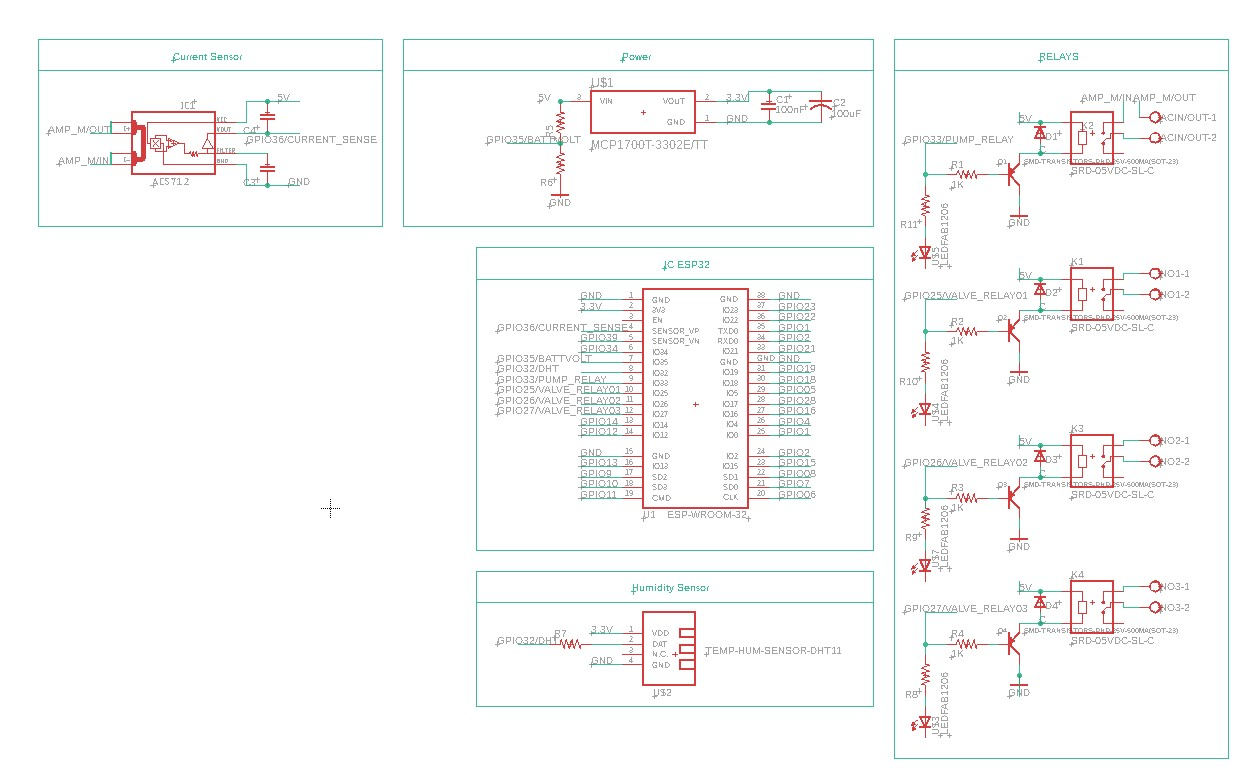
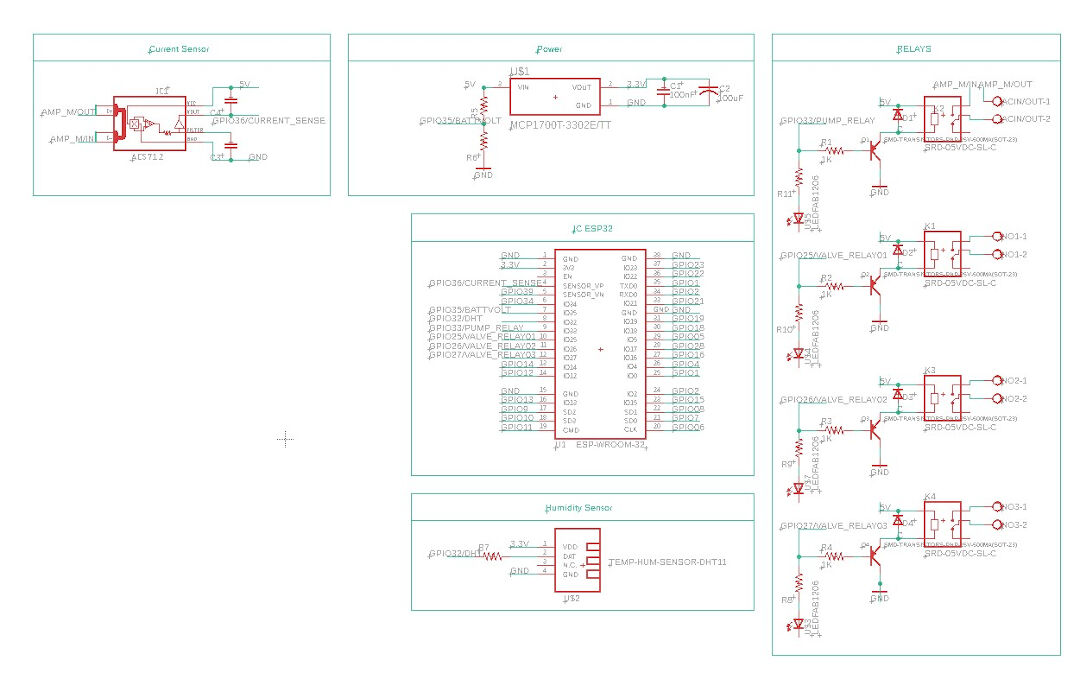
network partial

diff --git a/network.html b/network.html
@@ -61,24 +61,26 @@
             <hr>
             <h4>Group assignment</h4>
             <ul>
-                <li>...</li>
+                <li>Send a message between two projects</li>
             </ul>
             <h4>Individual assignment</h4>
             <ul>
-                <li>...</li>
+                <li>design, build, and connect wired or wireless node(s) with network or bus addresses</li>
             </ul>
             <br>
             <h4>Learning outcomes:</h4>
             <ul>
-                <li>...</li>
+                <li>Demonstrate workflows used in network design</li>
+                <li>Implement and interpret networking protocols and/or communication protocols</li>
             </ul><br>
             <h4>Have you:</h4>
             <ul>
                 <li>Linked to the group assignment page</li>
-                <li>Documented your process</li>
+                <li>Documented your project</li>
+                <li>Documented what you have learned from implementing networking and/or communication protocols</li>
+                <li>Explained the programming process/es you used.</li>
                 <li>Outlined problems and how you fixed them</li>
-                <li>Included original code (or a screenshot of the app code if that's not possible)</li>
-                <li>Included a ‘hero shot/video’ of your application running with your board</li>
+                <li>Included design files (or linked to where they are located if you are using a board you have designed and fabricated earlier) and original code.</li>
             </ul>
         </div>
         <hr>
@@ -145,6 +147,30 @@
         <p class="pic left"><img src="media/network/currentsensesch.jpg"></p>
         <p>I got the Real time clock library as well at <a href="https://www.snapeda.com/parts/DS1302ZN/Maxim%20Integrated/view-part/?ref=search&t=DS1302Z">Snapeda</a> but for now I will not use it so the full Schematics I draw is bellow:</p>
         <p class="pic left"><img src="media/network/schematics.jpg"></p>
+        <p>After sometime staring at the Schematics I realize a few errors, I forgot to connect the relays LED's resistor to VCC and also forgot to include a reset and a program button necessary to put the ESP on programming mode as well as forgot to include headers for the serial mode and for expandability and finally I decided to include a crystal for better time keeping.</p>
+        <p>I then drew the Reset and Program buttons:</p>
+        <p class="pic left"><img src="media/network/buttons.jpg"></p>
+        <p>Here I corrected the relays adding the VCC as well as added an octocoupler in between the signal and the relays so I prevent any feedback from the relays.</p>
+        <p class="pic left"><img src="media/network/relayswithoctocoupler.jpg"></p>
+        <p>Here I added TX RX header, crystal for better internall RTC timekepeeng and ESP32DEVKIT compatibility headers.</p>
+        <p class="pic left"><img src="media/network/headersandcrystal.jpg"></p>
+        <p>So hopefully finally my final Schematics...</p>
+        <p class="pic left"><img src="media/network/schematicsfinal.jpg"></p>
+        <p>Now I will start the routing work on the board I have to say I am a bit anxious as I never made such a complex PCB!</p>
+        <p>How encouraging is what I see when I move to the board mode in Eagle!!!</p>
+        <p class="pic left"><img src="media/network/encoraging.png"></p>
+        <p>First thing I do is to move the devkit foot print to the center along with the ESP32</p>
+        <p class="pic left"><img src="media/network/firstthing.jpg"></p>
+        <p>After trying for a while to connect by hand I give a try on the autorouter, I had to stop after a few minutes and the result is laughable. I will try again moving the esp32 up and if not I will not attempt a ESP32devkit compatibility.</p>
+        <p class="pic left"><img src="media/network/isthisevenfabable.jpg"></p>
+        <p>So I gave up on the DevKit compatibility and decided to move slowly this time. I created a backup of my work that I opened in another eagle window and deleted all the components I was not working on the schematics and board looked like this. My idea is to copy from the backup the components back as I finish each step. so below its how the step one looks.</p>
+        <p class="pic left"><img src="media/network/step01a.jpg"></p>
+        <p>In the Board you can see #1 the relay and #2 the the current sensor circuit and #3 the on board LED.</p>
+        <p class="pic left"><img src="media/network/step01b.jpg"></p>
+        <p>So now I copied the first valve relay and when I went to the board eagle presented me with the pasted components, I believe this way is much easier.</p>
+        <p class="pic left"><img src="media/network/step02b1.jpg"></p>
+        <p>So far the board looks like this, I haven't route any power wires included GND 3.3V and 5V. Will try autoroute now see results and maybe route manually.</p>
+        <p class="pic left"><img src="media/network/step02b1.jpg"></p>
         <hr>
         <h4>Code</h4>
         <p>My network protocol is going to be around a json file, before a project becomes gigantic simple text files are a good option and json is my weapon of choice</p>
